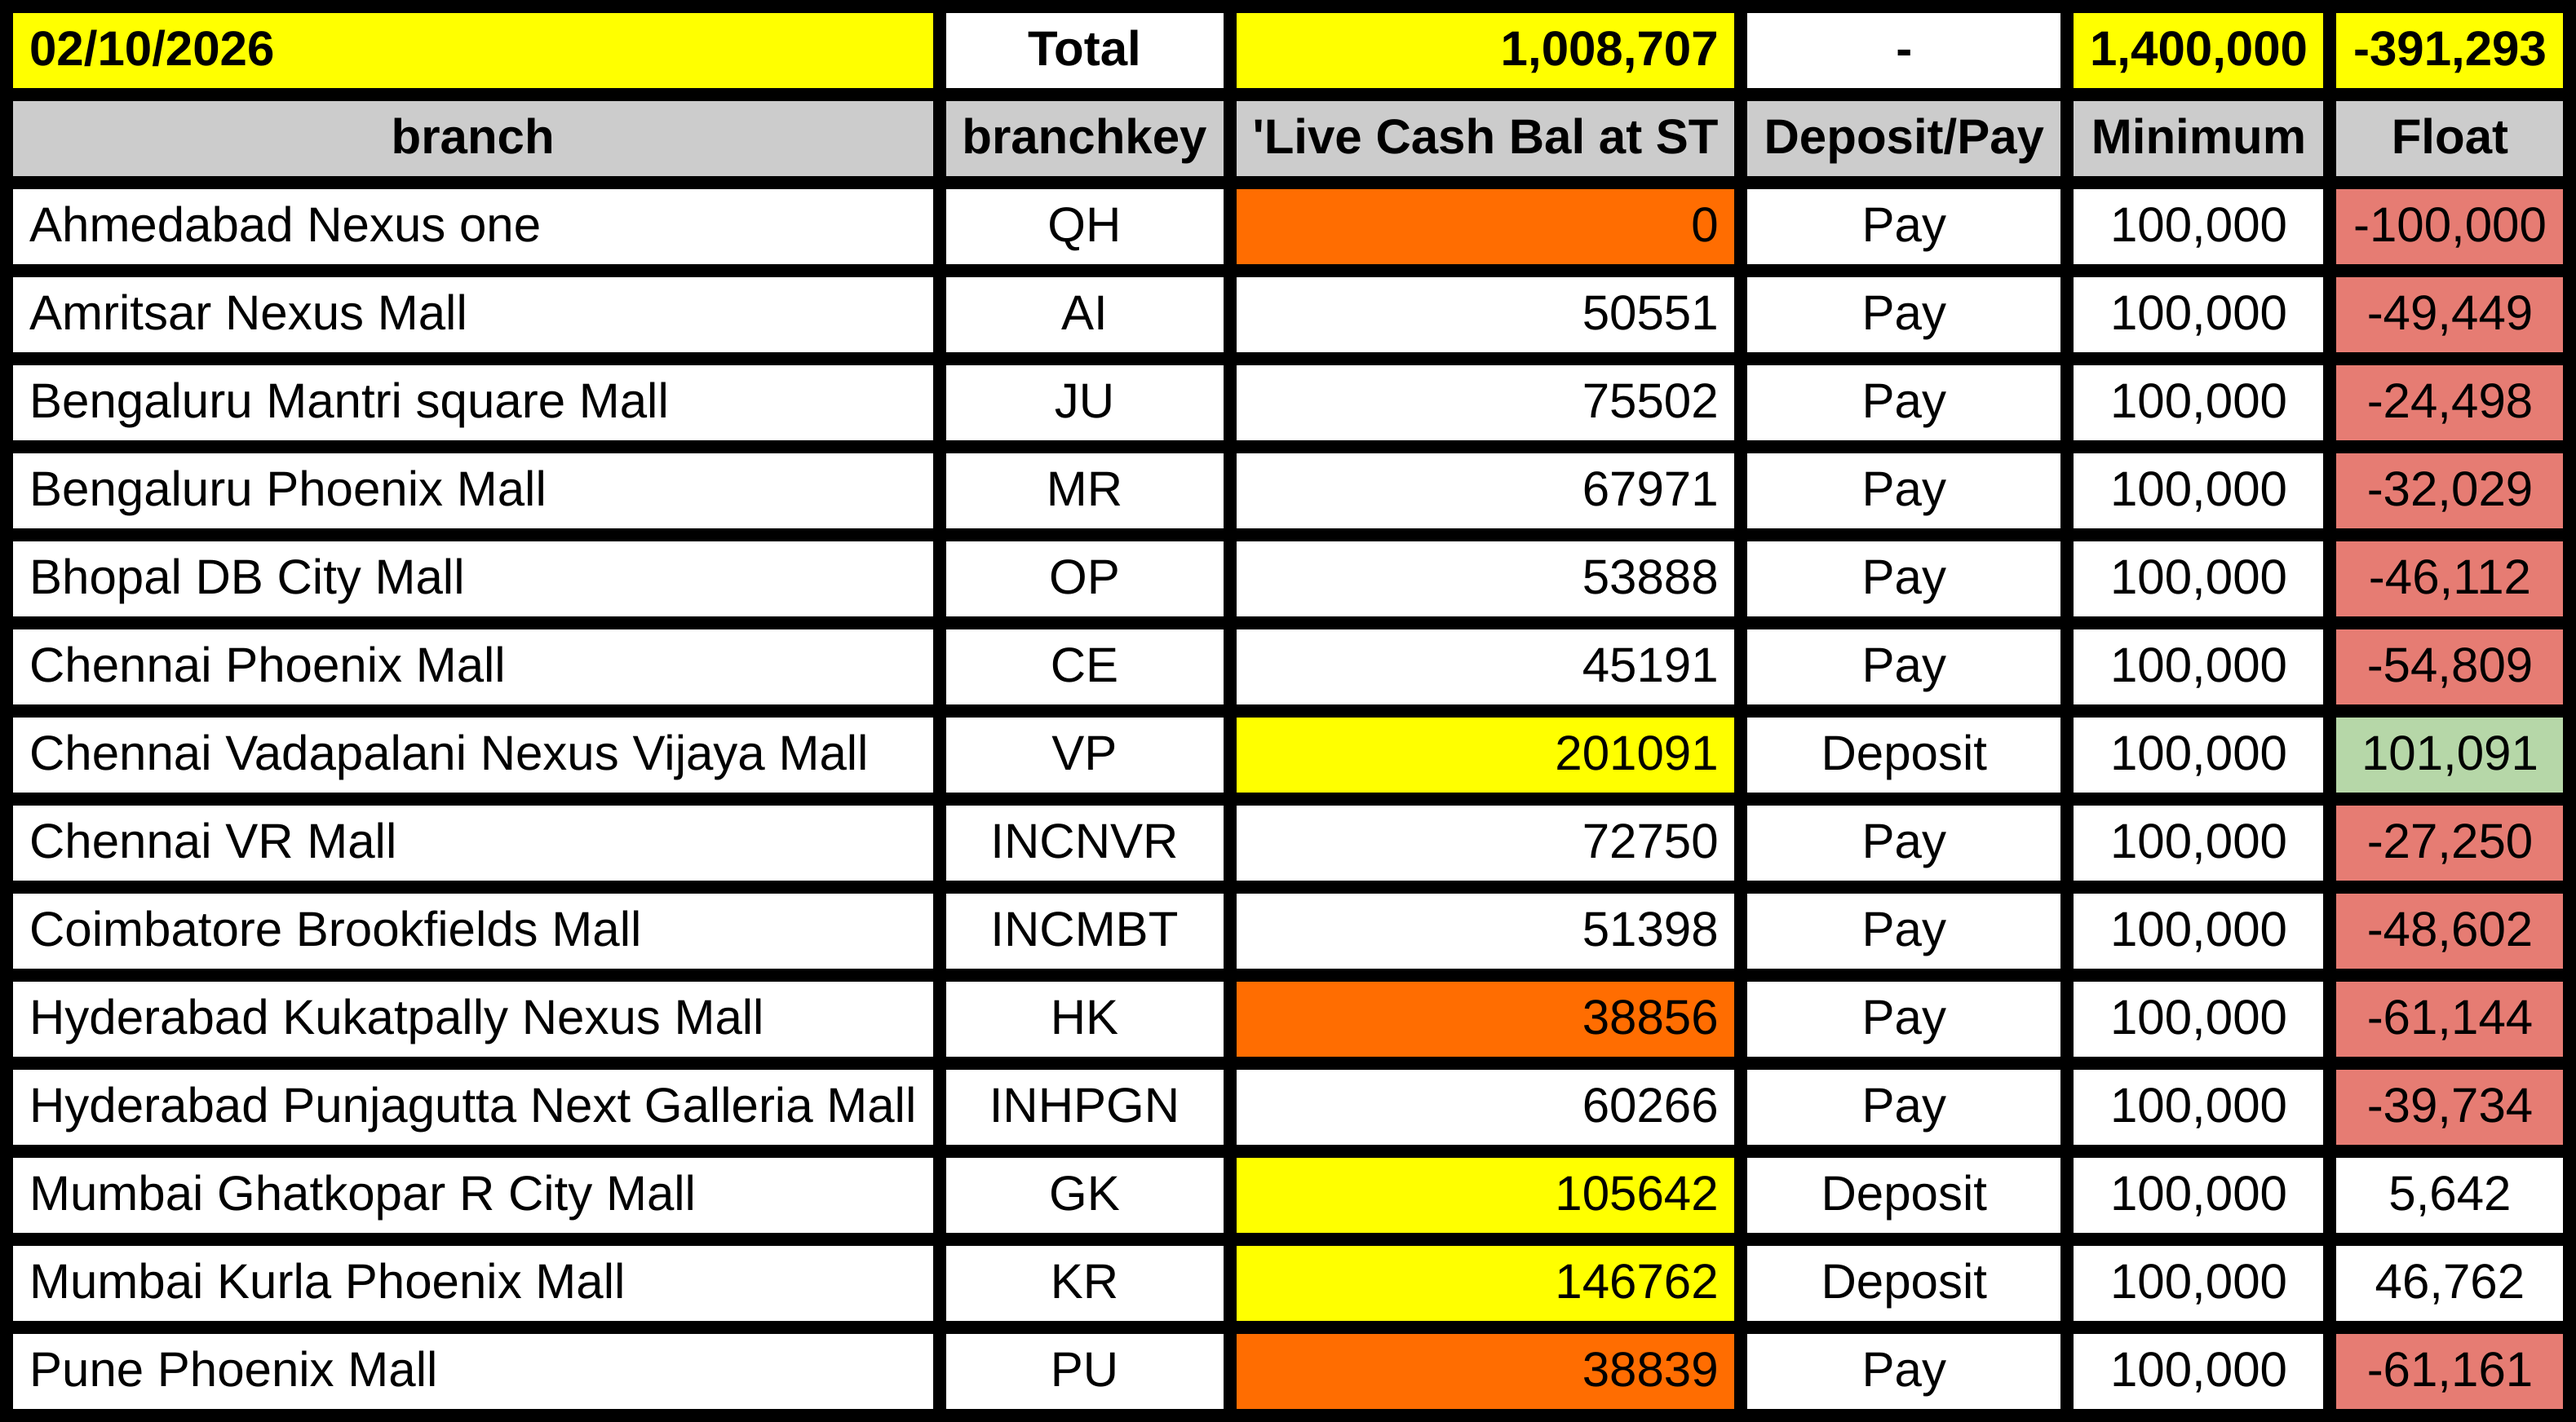
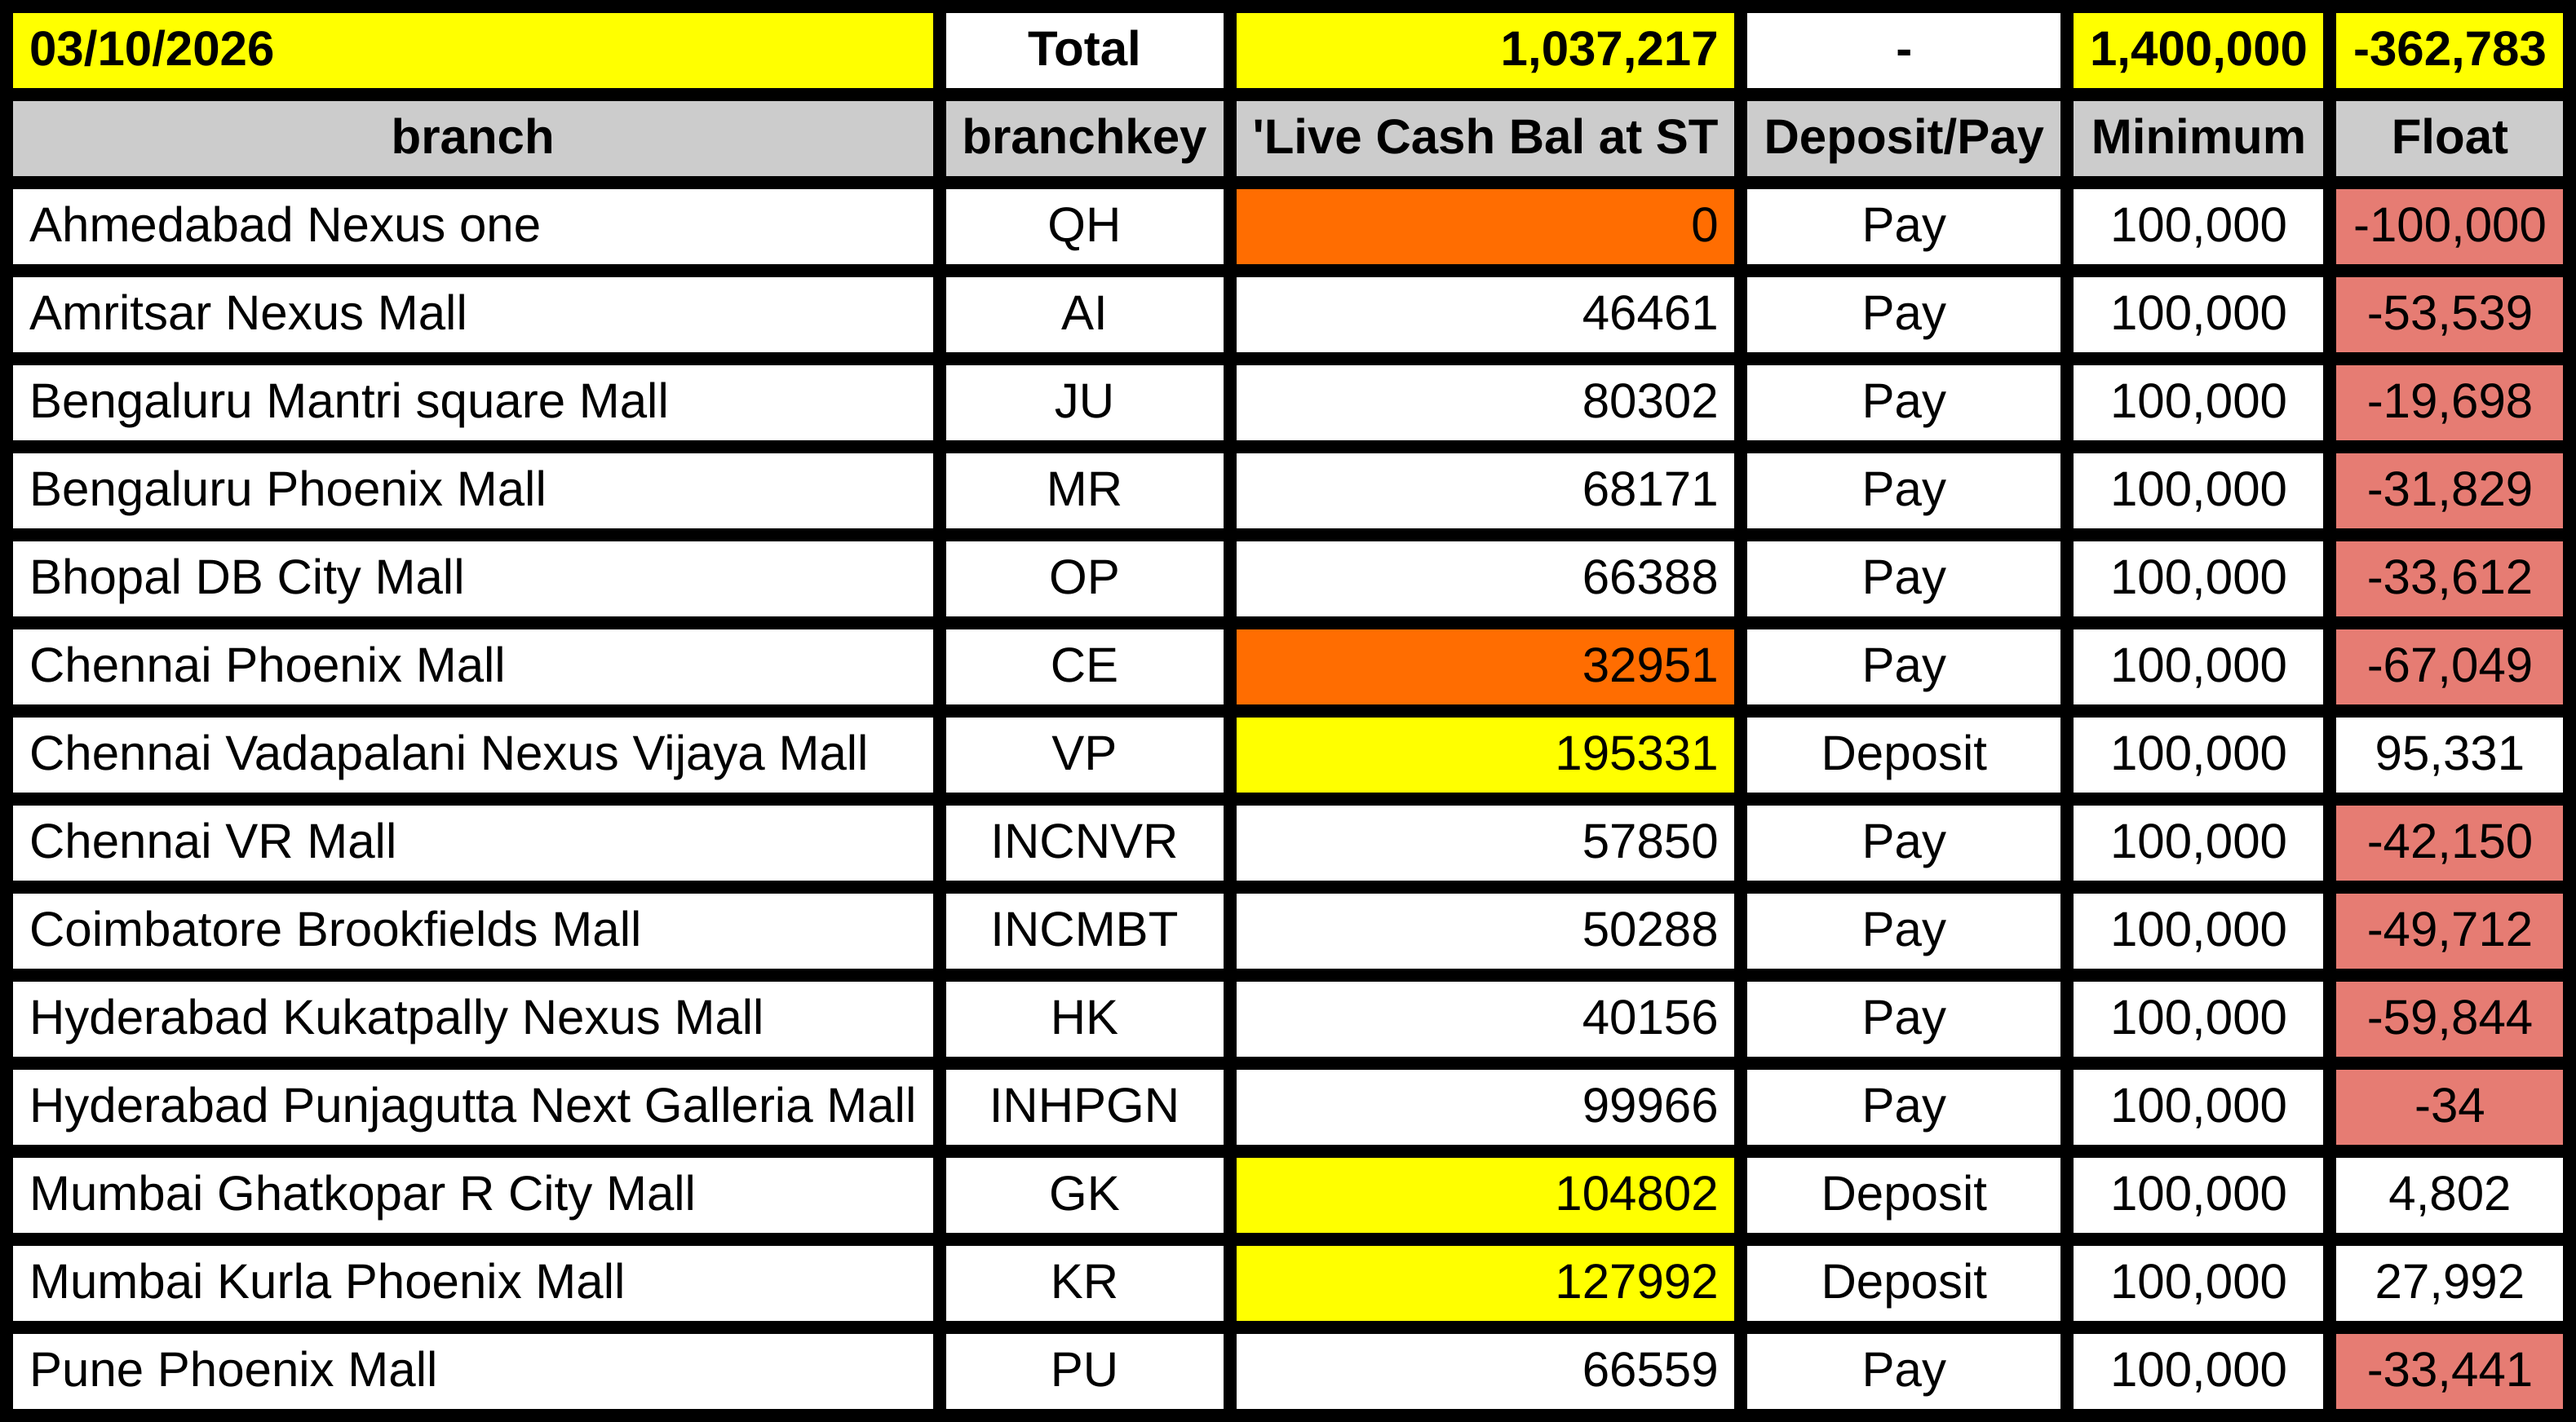
deploy: 1eb6ce62876c9d41067b4594acfaffc291ee4c8b

diff --git a/table.html b/table.html
@@ -21,7 +21,7 @@
           font-family: Arial, sans-serif;
           font-size: 30px;
           white-space: nowrap;
-        ">02/10/2026</td>
+        ">03/10/2026</td>
       
         <td style="
           background-color: #ffffff;
@@ -49,7 +49,7 @@
           font-family: Arial, sans-serif;
           font-size: 30px;
           white-space: nowrap;
-        ">1,008,707</td>
+        ">1,037,217</td>
       
         <td style="
           background-color: #ffffff;
@@ -91,7 +91,7 @@
           font-family: Arial, sans-serif;
           font-size: 30px;
           white-space: nowrap;
-        ">-391,293</td>
+        ">-362,783</td>
       </tr><tr>
         <td style="
           background-color: #cccccc;
@@ -301,7 +301,7 @@
           font-family: Arial, sans-serif;
           font-size: 30px;
           white-space: nowrap;
-        ">50551</td>
+        ">46461</td>
       
         <td style="
           background-color: #ffffff;
@@ -343,7 +343,7 @@
           font-family: Arial, sans-serif;
           font-size: 30px;
           white-space: nowrap;
-        ">-49,449</td>
+        ">-53,539</td>
       </tr><tr>
         <td style="
           background-color: #ffffff;
@@ -385,7 +385,7 @@
           font-family: Arial, sans-serif;
           font-size: 30px;
           white-space: nowrap;
-        ">75502</td>
+        ">80302</td>
       
         <td style="
           background-color: #ffffff;
@@ -427,7 +427,7 @@
           font-family: Arial, sans-serif;
           font-size: 30px;
           white-space: nowrap;
-        ">-24,498</td>
+        ">-19,698</td>
       </tr><tr>
         <td style="
           background-color: #ffffff;
@@ -469,7 +469,7 @@
           font-family: Arial, sans-serif;
           font-size: 30px;
           white-space: nowrap;
-        ">67971</td>
+        ">68171</td>
       
         <td style="
           background-color: #ffffff;
@@ -511,7 +511,7 @@
           font-family: Arial, sans-serif;
           font-size: 30px;
           white-space: nowrap;
-        ">-32,029</td>
+        ">-31,829</td>
       </tr><tr>
         <td style="
           background-color: #ffffff;
@@ -553,7 +553,7 @@
           font-family: Arial, sans-serif;
           font-size: 30px;
           white-space: nowrap;
-        ">53888</td>
+        ">66388</td>
       
         <td style="
           background-color: #ffffff;
@@ -595,7 +595,7 @@
           font-family: Arial, sans-serif;
           font-size: 30px;
           white-space: nowrap;
-        ">-46,112</td>
+        ">-33,612</td>
       </tr><tr>
         <td style="
           background-color: #ffffff;
@@ -626,7 +626,7 @@
         ">CE</td>
       
         <td style="
-          background-color: #ffffff;
+          background-color: #ff6d01;
           color: #000000;
           font-weight: normal;
           font-style: normal;
@@ -637,7 +637,7 @@
           font-family: Arial, sans-serif;
           font-size: 30px;
           white-space: nowrap;
-        ">45191</td>
+        ">32951</td>
       
         <td style="
           background-color: #ffffff;
@@ -679,7 +679,7 @@
           font-family: Arial, sans-serif;
           font-size: 30px;
           white-space: nowrap;
-        ">-54,809</td>
+        ">-67,049</td>
       </tr><tr>
         <td style="
           background-color: #ffffff;
@@ -721,7 +721,7 @@
           font-family: Arial, sans-serif;
           font-size: 30px;
           white-space: nowrap;
-        ">201091</td>
+        ">195331</td>
       
         <td style="
           background-color: #ffffff;
@@ -752,7 +752,7 @@
         ">100,000</td>
       
         <td style="
-          background-color: #b6d7a8;
+          background-color: #ffffff;
           color: #000000;
           font-weight: normal;
           font-style: normal;
@@ -763,7 +763,7 @@
           font-family: Arial, sans-serif;
           font-size: 30px;
           white-space: nowrap;
-        ">101,091</td>
+        ">95,331</td>
       </tr><tr>
         <td style="
           background-color: #ffffff;
@@ -805,7 +805,7 @@
           font-family: Arial, sans-serif;
           font-size: 30px;
           white-space: nowrap;
-        ">72750</td>
+        ">57850</td>
       
         <td style="
           background-color: #ffffff;
@@ -847,7 +847,7 @@
           font-family: Arial, sans-serif;
           font-size: 30px;
           white-space: nowrap;
-        ">-27,250</td>
+        ">-42,150</td>
       </tr><tr>
         <td style="
           background-color: #ffffff;
@@ -889,7 +889,7 @@
           font-family: Arial, sans-serif;
           font-size: 30px;
           white-space: nowrap;
-        ">51398</td>
+        ">50288</td>
       
         <td style="
           background-color: #ffffff;
@@ -931,7 +931,7 @@
           font-family: Arial, sans-serif;
           font-size: 30px;
           white-space: nowrap;
-        ">-48,602</td>
+        ">-49,712</td>
       </tr><tr>
         <td style="
           background-color: #ffffff;
@@ -962,7 +962,7 @@
         ">HK</td>
       
         <td style="
-          background-color: #ff6d01;
+          background-color: #ffffff;
           color: #000000;
           font-weight: normal;
           font-style: normal;
@@ -973,7 +973,7 @@
           font-family: Arial, sans-serif;
           font-size: 30px;
           white-space: nowrap;
-        ">38856</td>
+        ">40156</td>
       
         <td style="
           background-color: #ffffff;
@@ -1015,7 +1015,7 @@
           font-family: Arial, sans-serif;
           font-size: 30px;
           white-space: nowrap;
-        ">-61,144</td>
+        ">-59,844</td>
       </tr><tr>
         <td style="
           background-color: #ffffff;
@@ -1057,7 +1057,7 @@
           font-family: Arial, sans-serif;
           font-size: 30px;
           white-space: nowrap;
-        ">60266</td>
+        ">99966</td>
       
         <td style="
           background-color: #ffffff;
@@ -1099,7 +1099,7 @@
           font-family: Arial, sans-serif;
           font-size: 30px;
           white-space: nowrap;
-        ">-39,734</td>
+        ">-34</td>
       </tr><tr>
         <td style="
           background-color: #ffffff;
@@ -1141,7 +1141,7 @@
           font-family: Arial, sans-serif;
           font-size: 30px;
           white-space: nowrap;
-        ">105642</td>
+        ">104802</td>
       
         <td style="
           background-color: #ffffff;
@@ -1183,7 +1183,7 @@
           font-family: Arial, sans-serif;
           font-size: 30px;
           white-space: nowrap;
-        ">5,642</td>
+        ">4,802</td>
       </tr><tr>
         <td style="
           background-color: #ffffff;
@@ -1225,7 +1225,7 @@
           font-family: Arial, sans-serif;
           font-size: 30px;
           white-space: nowrap;
-        ">146762</td>
+        ">127992</td>
       
         <td style="
           background-color: #ffffff;
@@ -1267,7 +1267,7 @@
           font-family: Arial, sans-serif;
           font-size: 30px;
           white-space: nowrap;
-        ">46,762</td>
+        ">27,992</td>
       </tr><tr>
         <td style="
           background-color: #ffffff;
@@ -1298,7 +1298,7 @@
         ">PU</td>
       
         <td style="
-          background-color: #ff6d01;
+          background-color: #ffffff;
           color: #000000;
           font-weight: normal;
           font-style: normal;
@@ -1309,7 +1309,7 @@
           font-family: Arial, sans-serif;
           font-size: 30px;
           white-space: nowrap;
-        ">38839</td>
+        ">66559</td>
       
         <td style="
           background-color: #ffffff;
@@ -1351,7 +1351,7 @@
           font-family: Arial, sans-serif;
           font-size: 30px;
           white-space: nowrap;
-        ">-61,161</td>
+        ">-33,441</td>
       </tr>
   </table>
 </body>
